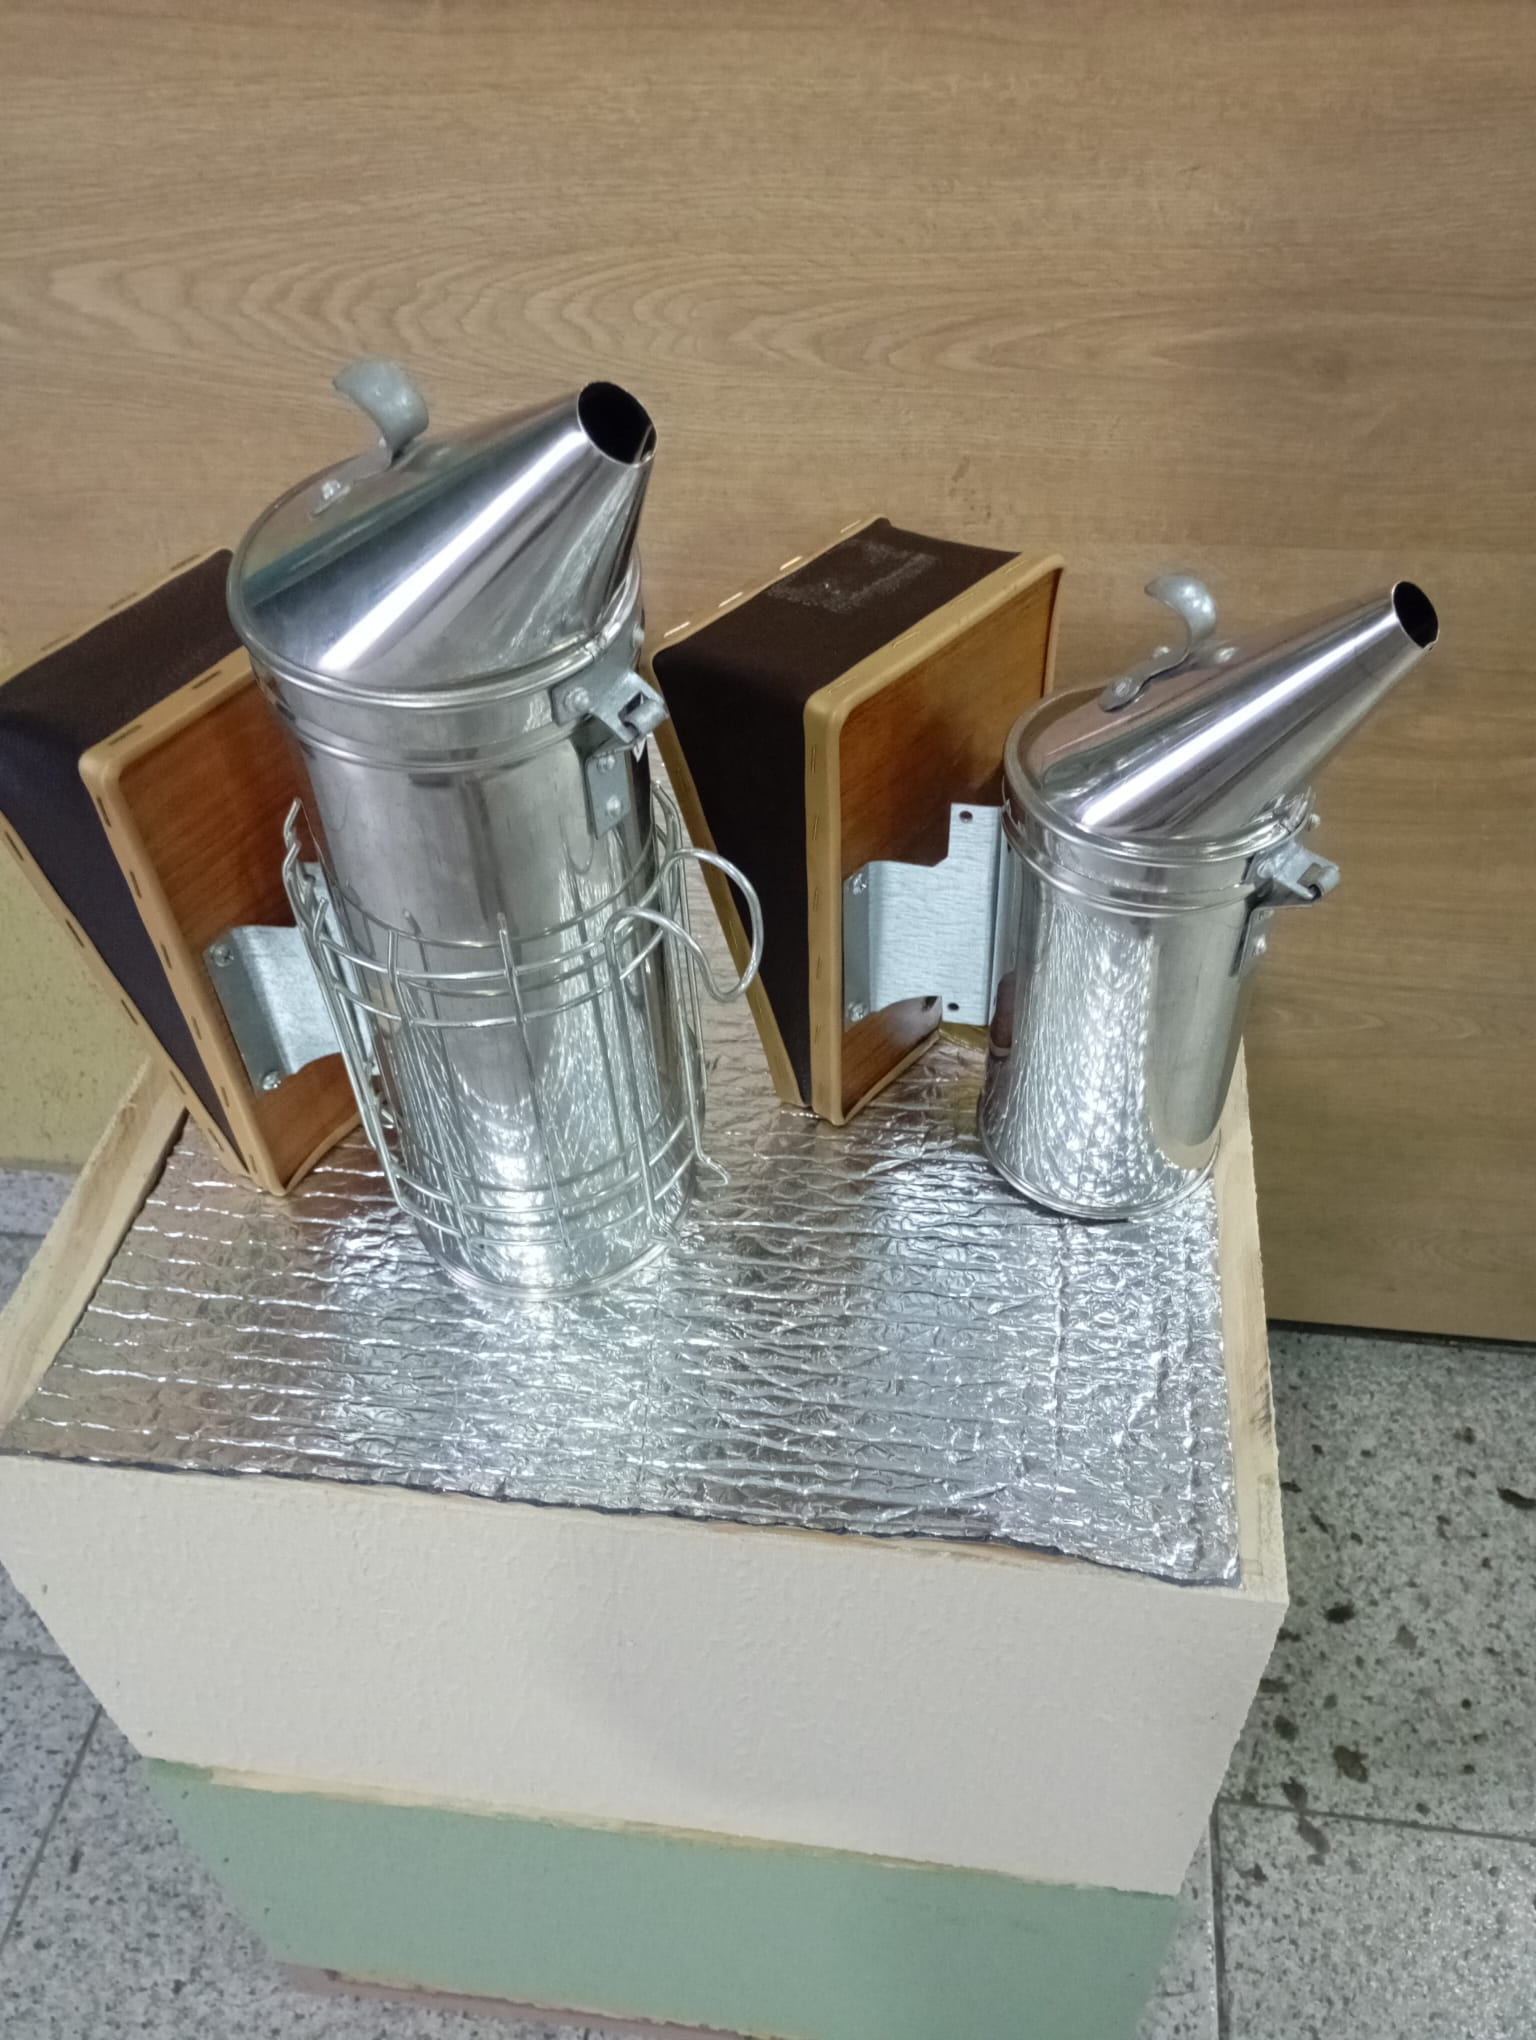
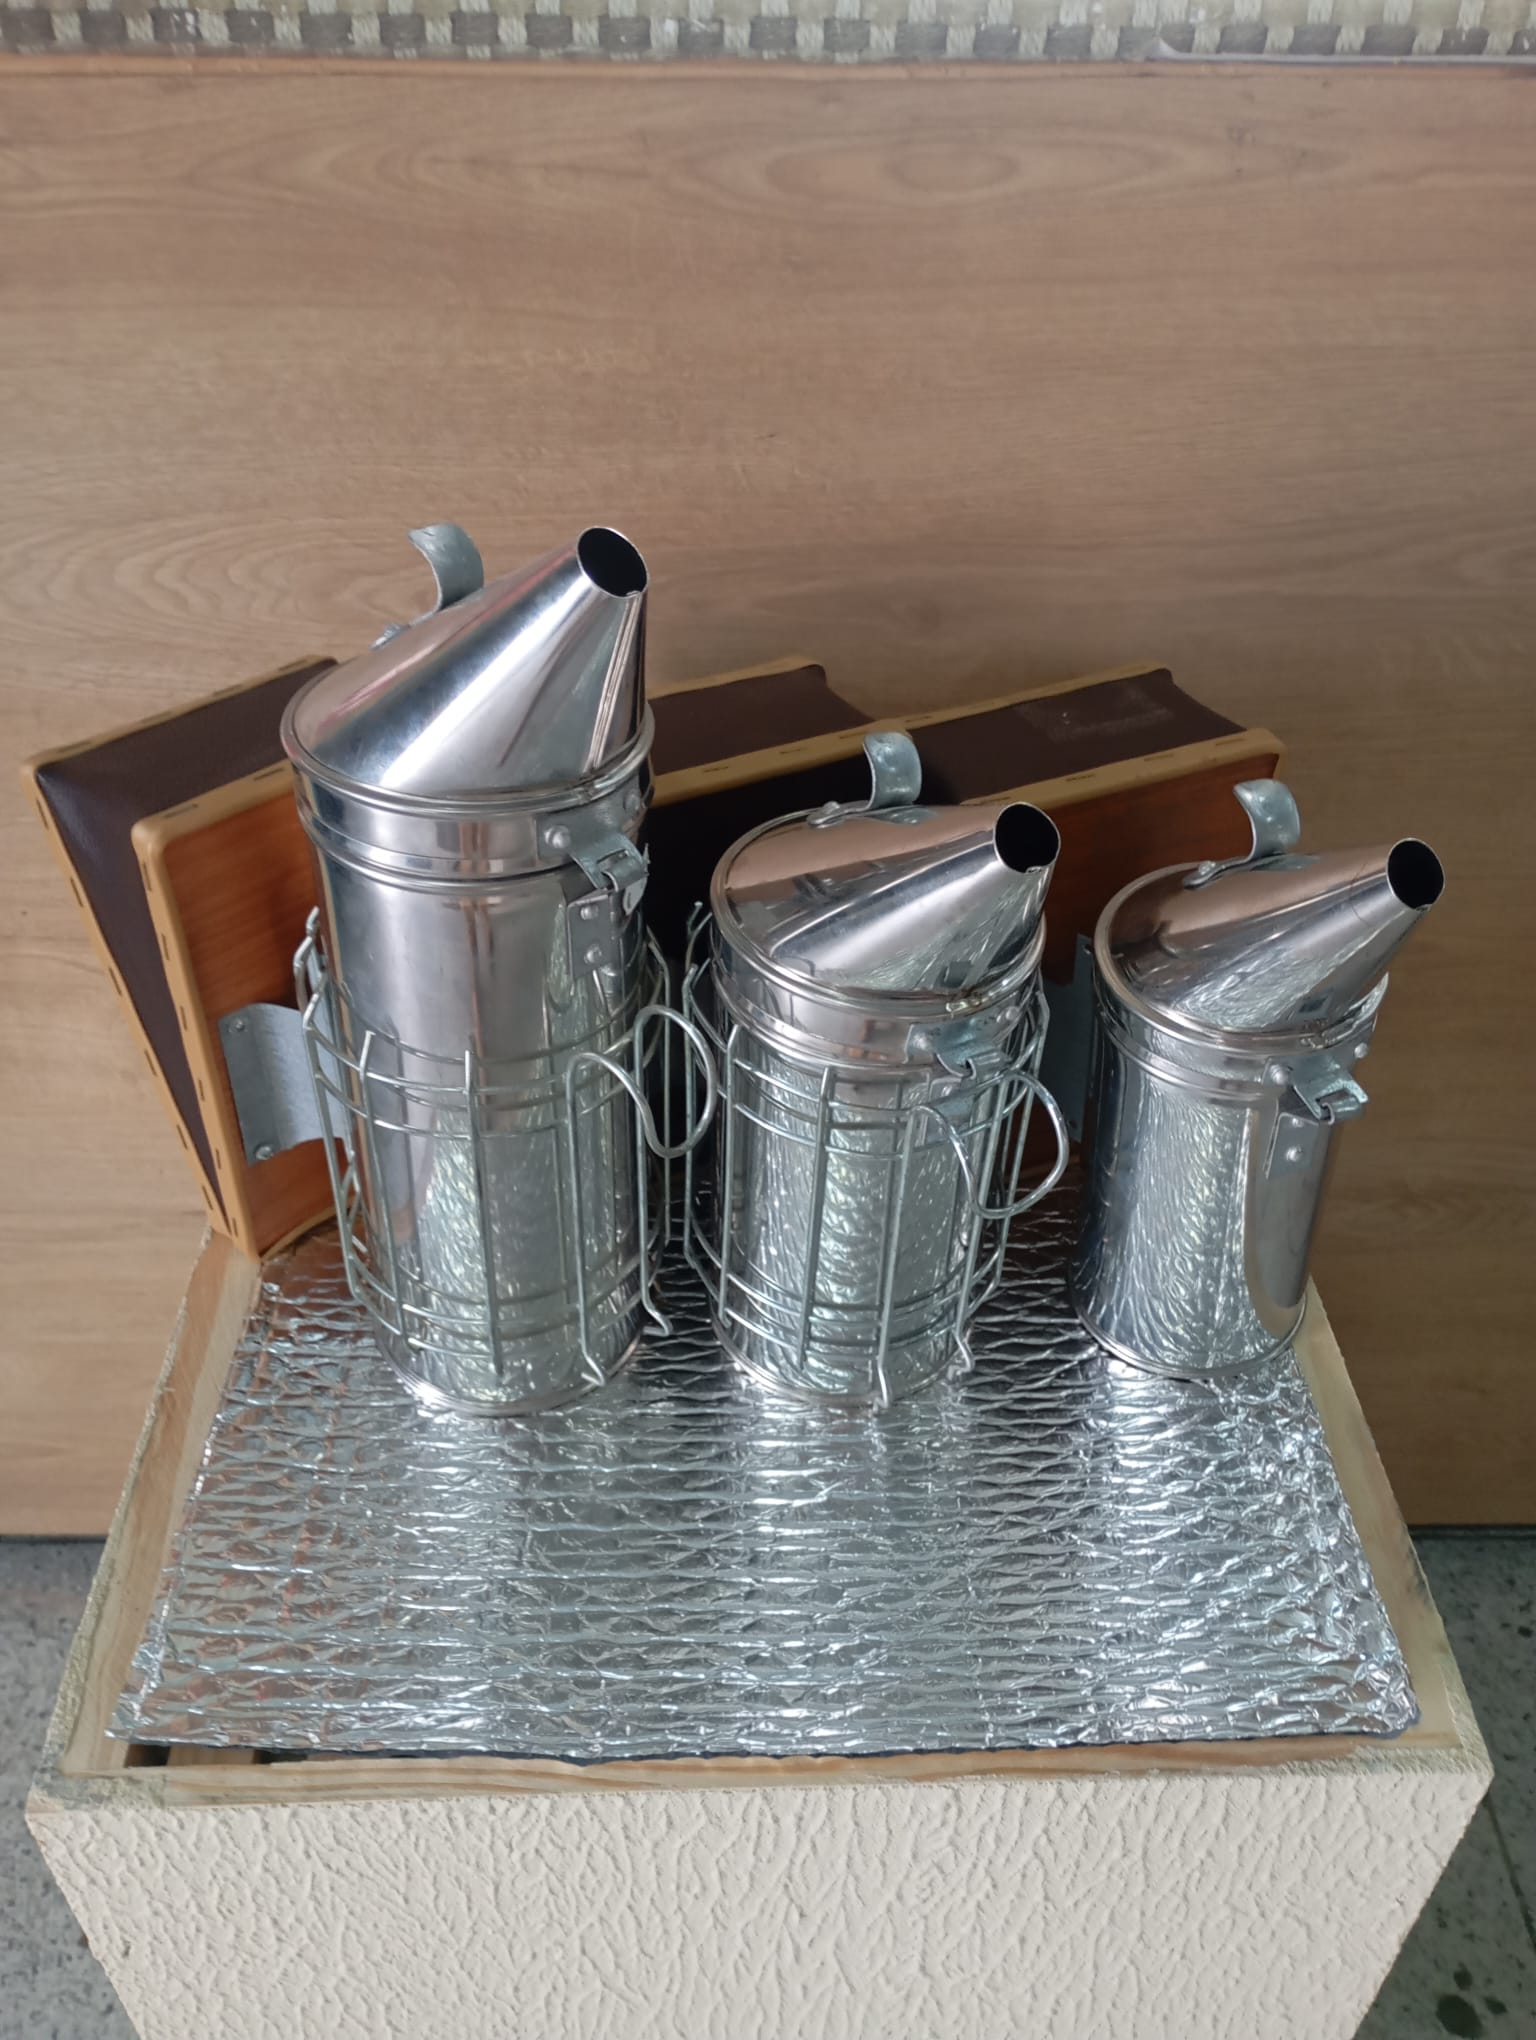
alterar morada e localização mapa em contactos, atualizar imagens de produtos

diff --git a/src/components/produtos/produtosData.ts b/src/components/produtos/produtosData.ts
@@ -11,9 +11,9 @@ import nucleoReversivelPintado from "../../assets/colmeias/nucleo_revers_P.jpg";
 import nucleoReversivelEmalhetado from "../../assets/colmeias/nucleo_revers_E.jpg";
 import nucleoPortaEnxames from "../../assets/colmeias/nucleo_porta_enxames.jpg";
 import quadroNinhoAlca from "../../assets/colmeias/q_reversivel.jpg";
-import estrado from "../../assets/colmeias/estrado_reversivel.jpeg";
+import estrado from "../../assets/colmeias/estrado.jpg";
 import estradoAntiVarroa from "../../assets/colmeias/estrados_anti_varroa.jpg";
-import prancheta from "../../assets/colmeias/agasalho.jpeg";
+import prancheta from "../../assets/colmeias/prancheta.jpg";
 import telhado from "../../assets/colmeias/telhado.jpg";
 import colmeiaLusitanaPintada from "../../assets/colmeias/lusitana_P.jpg";
 import colmeiaLusitanaEmalhetada from "../../assets/colmeias/lusitana_E.jpg";
@@ -26,6 +26,11 @@ import colmeiaLangstrothEmalhetada from "../../assets/colmeias/langstroth_E.jpg"
 import nucleoLangstrothPintada from "../../assets/colmeias/nucleo_lang_P.jpg";
 import nucleoLangstrothEmalhetada from "../../assets/colmeias/nucleo_lang_E.jpg";
 import corticos from "../../assets/colmeias/corticos.jpg";
+import agasalho from "../../assets/colmeias/agasalho.jpeg";
+import pranchetaLang from "../../assets/colmeias/estrado_lang.jpeg";
+import telhadoLang from "../../assets/colmeias/telhado_lang.jpeg";
+import quadro12Alca from "../../assets/colmeias/quadro_12alca.jpeg";
+import quadroAlcaLang from "../../assets/colmeias/quadro_lang.jpeg";
 
 import manualTangencial369Quadros from "../../assets/extracao/extrator_m_369q.jpeg";
 import manualTangencial36Quadros from "../../assets/extracao/extractor_mt_3e6.jpg";
@@ -62,10 +67,10 @@ import armadilha from "../../assets/utensilios/armadilha_vespa.jpeg";
 import jaula from "../../assets/utensilios/jaula.jpeg";
 
 import frasco2kg from "../../assets/diversos/frascos_plastico.jpeg";
-import frasco11kg from "../../assets/diversos/frasco_1100grs.jpg";
-import frasco1kg from "../../assets/diversos/frasco_1000grs.jpg";
-import frasco500g from "../../assets/diversos/frasco_500grs.jpg";
-import frasco250g from "../../assets/diversos/frasco_250grs.jpg";
+import frasco11kg from "../../assets/diversos/frasco_11kg.jpeg";
+import frasco1kg from "../../assets/diversos/frasco_1kg.jpeg";
+import frasco500g from "../../assets/diversos/frascos_500gr.jpeg";
+import frasco250g from "../../assets/diversos/frasco_250gr.jpeg";
 import frasco212ml from "../../assets/diversos/frasco_212ml.jpg";
 import frasco106ml from "../../assets/diversos/frasco_106ml.jpg";
 import frasco38gr from "../../assets/diversos/frasco_38grs.jpg";
@@ -83,17 +88,18 @@ import apimel from "../../assets/diversos/apimel.jpg";
 import apicomin from "../../assets/diversos/alimentos_estimulacao.jpeg";
 import alimentosManutencao from "../../assets/diversos/alimentos_manutencao.jpeg";
 
-import saboneteMel from "../../assets/cosmetica/sabonete_mel.jpg";
-import saboneteGeleia from "../../assets/cosmetica/sabonete_geleia.jpg";
-import sabonetePropolis from "../../assets/cosmetica/sabonete_propolis.jpg";
-import gelBanho from "../../assets/cosmetica/gel_mel.jpg";
-import champoAntiCaspa from "../../assets/cosmetica/champo_anticaspa.jpg";
-import champoAntiQueda from "../../assets/cosmetica/champo_antiqueda.jpg";
+import gelBanho from "../../assets/cosmetica/gel_mel.jpeg";
+import champoAntiCaspa from "../../assets/cosmetica/champo_anticaspa.jpeg";
+import champoAntiQueda from "../../assets/cosmetica/champo_antiqueda.jpeg";
 import champoMel from "../../assets/cosmetica/champo_mel.jpg";
 import cremeMaos from "../../assets/cosmetica/creme.jpg";
 import cremeMaosMel from "../../assets/cosmetica/creme_mel.jpeg";
 import batom from "../../assets/cosmetica/batom.jpeg";
 import esfoliante from "../../assets/cosmetica/esfoliante.jpg";
+import sabonetes1 from "../../assets/cosmetica/sabonetes_1.jpeg";
+import sabonetes2 from "../../assets/cosmetica/sabonetes_2.jpeg";
+import sabonetes3 from "../../assets/cosmetica/sabonetes_3.jpeg";
+import sabonetes4 from "../../assets/cosmetica/sabonetes_4.jpeg";
 
 import baldes from "../../assets/embalamentos/baldes.jpeg";
 import barricas from "../../assets/embalamentos/barricas.jpeg";
@@ -199,23 +205,23 @@ export const productsData: ProductsModel[] = [
                 name: "Núcleo Langstroth emalhetado"
             },
             {
-                imageUrl: "",
+                imageUrl: quadroAlcaLang,
                 name: "Quadro ninho ou alça Langstroth"
             },
             {
-                imageUrl: "",
+                imageUrl: quadro12Alca,
                 name: "Quadro 1/2 alça Langstroth"
             },
             {
-                imageUrl: "",
+                imageUrl: pranchetaLang,
                 name: "Estrado colmeia Langstroth"
             },
             {
-                imageUrl: "",
+                imageUrl: agasalho,
                 name: "Prancheta agasalho colmeia Langstroth"
             },
             {
-                imageUrl: "",
+                imageUrl: telhadoLang,
                 name: "	Telhado colmeia Langstroth"
             },
             {
@@ -488,18 +494,6 @@ export const productsData: ProductsModel[] = [
         category: "Cosmética",
         products: [
             {
-                imageUrl: saboneteMel,
-                name: "Sabonete de mel"
-            },
-            {
-                imageUrl: saboneteGeleia,
-                name: "Sabonete de geleia real"
-            },
-            {
-                imageUrl: sabonetePropolis,
-                name: "Sabonete de própolis"
-            },
-            {
                 imageUrl: gelBanho,
                 name: "Gel de banho de mel e geleia real"
             },
@@ -530,6 +524,22 @@ export const productsData: ProductsModel[] = [
             {
                 imageUrl: esfoliante,
                 name: "Gel esfoliante"
+            },
+            {
+                imageUrl: sabonetes1,
+                name: "Sabonetes Diversos"
+            },
+            {
+                imageUrl: sabonetes2,
+                name: "Sabonetes Diversos"
+            },
+            {
+                imageUrl: sabonetes3,
+                name: "Sabonetes Diversos"
+            },
+            {
+                imageUrl: sabonetes4,
+                name: "Sabonetes Diversos"
             },
         ]
     },

diff --git a/src/components/contactos/Contactos.tsx b/src/components/contactos/Contactos.tsx
@@ -9,13 +9,13 @@ const Contactos = () => {
             <BreadcrumbNav title="Contactos" />
 
             <div className="cards-container">
-                <ContactosCard icon={<FaHouse style={{ fontSize: "40px" }} />} title="Morada" text="Rua da Associação Recreativa e Cultural do Valongo 11, 6000-256 CASTELO BRANCO" />
+                <ContactosCard icon={<FaHouse style={{ fontSize: "40px" }} />} title="Morada" text="Rua da Associação Recreativa e Cultural do Valongo 11, 6000-356 CASTELO BRANCO" />
                 <ContactosCard icon={<FaEnvelopeOpenText style={{ fontSize: "40px" }} />} title="Email" text="****@gmail.com" />
                 <ContactosCard icon={<FaPhoneVolume style={{ fontSize: "40px" }} />} title="Contacto" text="+351 934 868 731*" />
             </div>
 
             <div className="map-container">
-                <iframe src="https://www.google.com/maps/embed?pb=!1m18!1m12!1m3!1d766.2691866303646!2d-7.503484849904365!3d39.805270255852435!2m3!1f0!2f0!3f0!3m2!1i1024!2i768!4f13.1!3m3!1m2!1s0xd3d5f0185584a33%3A0x38638482a939bc17!2sApicolmeias%20-%20Com%C3%A9rcio%20de%20Colmeias%20e%20Material%20Ap%C3%ADcola%20Paula%20Ribeiro!5e1!3m2!1spt-PT!2spt!4v1731168709281!5m2!1spt-PT!2spt" style={{ borderRadius: "5px", width: "100%", height: "500px" }} allowFullScreen={false} loading="lazy" referrerPolicy="no-referrer-when-downgrade"></iframe>
+                <iframe src="https://www.google.com/maps/embed?pb=!1m18!1m12!1m3!1d3065.083673427484!2d-7.506272824019108!3d39.80511487154446!2m3!1f0!2f0!3f0!3m2!1i1024!2i768!4f13.1!3m3!1m2!1s0xd3d5ebe061270cd%3A0x2d0e531dca856ac1!2sR.%20Associa%C3%A7%C3%A3o%20Recreativa%20e%20Cultural%20do%20Bairro%20do%20Valongo%2011%2C%206000-356%20Castelo%20Branco!5e1!3m2!1spt-PT!2spt!4v1740090594651!5m2!1spt-PT!2spt" style={{ borderRadius: "5px", width: "100%", height: "500px" }} allowFullScreen={false} loading="lazy" referrerPolicy="no-referrer-when-downgrade"></iframe>
             </div>
         </>
     )
